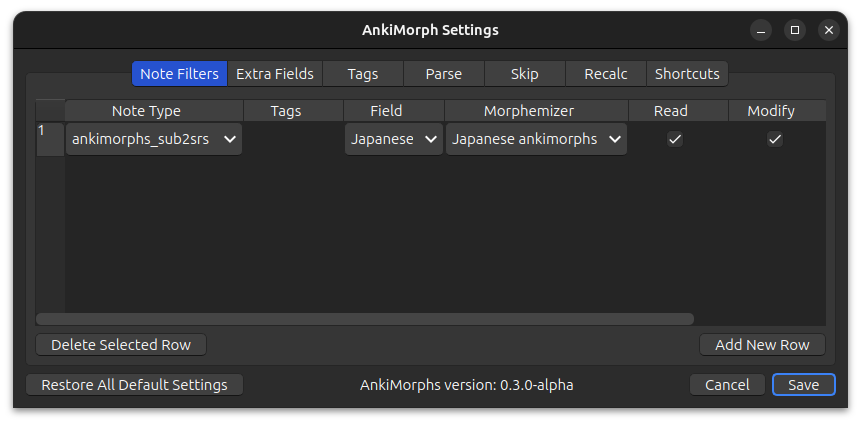
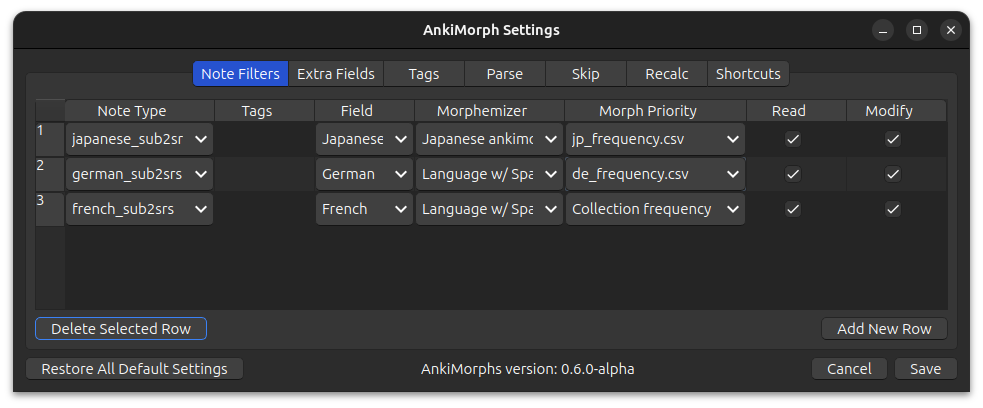
updated docs for v0.6.0 release( #59)

diff --git a/docs/src/user_guide/setup/prioritizing.md b/docs/src/user_guide/setup/prioritizing.md
@@ -1,50 +1,49 @@
 # Prioritizing
 
-Morphman prioritizes morphs based on two things:
+The more frequently a morph occurs in a language, the more useful it is to learn. This is the fundamental principle
+behind AnkiMorphs--learn a language in the order that will be the most useful.
 
-* How often the morph occurs in your [specified cards](preferences/note-filter.md#note-filter).
-* How high the morph is placed in a manually imported ['frequency.txt'](prioritizing.md#frequencytxt) file.
+AnkiMorphs is a general purpose language learning tool, therefore it has to be told which morphs occur most often. You
+can do this in two ways, either have AnkiMorphs calculate the morph frequencies found in your
+cards (`Collection frequency`), or you can specify a [custom .csv file](#frequencycsv) that contains that information.
 
-See the [MorphMan Index section](../glossary.md#morphman-index-mmi) to understand exactly how adding a frequency list
-affects MorphMan’s sorting algorithm.
+## frequency.csv
 
-## frequency.txt
+![frequency-csv.png](../../img/frequency-csv.png)
 
-This file contains a list of morphs in a top-down format, i.e. the higher the morph is in the list the more frequently
-it
-occurs. The higher a morph is the more priority it will be given by MorphMan.
+Your custom .csv file needs to follow this format:
 
-![morphman-freqtxt1.png](../../img/frequenxy-txt.png)
+- The 1st row is assumed to contain column headers and will be ignored.
+- Rows 2 and down are assumed to contain morphs in descending order of frequency, i.e. the morph on the 2nd row is the
+  most occurring morph, the morph on the 3rd row is the second most occurring, etc.
 
-Once you place a “frequency.txt” file in
-the [database folder](../glossary.md#databases),
-MorphMan will automatically begin using it to sort cards next time you run [Recalc](../usage/recalc.md). In order for MorphMan to recognize a
-frequency list, it must be formatted as a text file titled “frequency.txt” and contain one morph on each line.
+Keep the files to 50K rows or less, any rows after that are ignored for practical purposes.
 
-In general, longer frequency lists are preferable, as they provide more coverage. That said, longer frequency lists
-might make [Recalc](../usage/recalc.md) take slightly longer to complete.
+Any .csv file located in the folder [[anki profile folder](../glossary.md#profile-folder)]`/frequency-files/` is
+available for selection in [note filters](../setup/settings/note-filter.md).
 
-### Downloadable frequency.txt files
+### Creating Your Own frequency.csv
 
+You can also use the [Frequency File Generator](../usage/frequency-file-generator.md) to generate your own frequency.csv
+file.
+
+### Downloadable frequency.csv files
+
+If you have [generated a frequency file](../usage/frequency-file-generator.md) that you think other people might benefit
+from using then please consider sharing
+it! Create a new ['Documentation request' issue](https://github.com/mortii/anki-morphs/issues/new/choose) where you let
+me
+know, and I'll add it to the lists below.
 
 <details>
   <summary>Japanese Frequency Lists</summary>
 
-> * <a download href="../../frequency_lists/japanese_frequency_lists/jpdb-50k/frequency.txt">jpdb 50k</a> (recommended)  
-    Created from jpdb.io's collection of 130 million sentences
-> * <a download href="../../frequency_lists/japanese_frequency_lists/netflix-20k/frequency.txt">Netflix 20k</a>  
-    Created from all of the Japanese subtitles on Netflix
+> *
 </details>
 
 <details>
-  <summary>Chinese Frequency List</summary>
+  <summary>Chinese Frequency Lists</summary>
 
-> * <a download href="../../frequency_lists/chinese_frequency_lists/BLCU-20K/frequency.txt">BLCU 20K</a>  
-  Created from the BLCU Chinese Corpus frequency list.
+> *
 </details>
 
-### Creating Your Own frequenxy.txt
-
-You can also use the [Readability Analyzer](../usage/readability-analyzer.md) to generate your own original
-frequency.txt from
-target-language text.

diff --git a/docs/src/user_guide/setup/settings/note-filter.md b/docs/src/user_guide/setup/settings/note-filter.md
@@ -3,8 +3,10 @@
 ![settings-note-filter.png](../../../img/settings-note-filter.png)
 
 AnkiMorphs only analyzes and sorts cards that matches at least one "note filter"; if you don't specify any note filters
-then AnkiMorphs
-won't do anything, so this is a necessary step.
+then AnkiMorphs won't do anything, so this is a necessary step. This can seem overly complicated and overwhelming, but
+hopefully things will make sense after reading to the end of this page. This is really the heart of the add-on, and it
+has some powerful options (notably [tags](note-filter.md#tags)), so having a good understanding of note filters work
+might significantly improve how much you benefit from AnkiMorphs.
 
 Each note filter contains:
 
@@ -12,6 +14,7 @@ Each note filter contains:
 * [Tags](note-filter.md#tags) (optional)
 * [Field](note-filter.md#field)
 * [Morphemizer](note-filter.md#morphemizer)
+* [Morph Priority](note-filter.md#morph-priority)
 * [Read & Modify](note-filter.md#read--modify) (optional)
 
 ## Note Type
@@ -86,11 +89,22 @@ This is the field on the card AnkiMorphs reads and analyzes, which is then used 
 2. Find the note type in the left sidebar
 3. Find the field you care about
 
-In my case the field I'm interested in is "Japanese"
+In my case the field I'm interested in is `Japanese`
 
 ## Morphemizer
 
 This is the [parsing dictionary](../../installation/parsing-dictionary.md) AnkiMorphs uses to find morphs.
+
+## Morph Priority
+
+The calculated difficulty of the card, and as a result, the sorting of the card, depends on
+the [priority](../prioritizing.md) you give the
+morphs. You can either set the priorities to be `Collection frequency` (how often the morphs occur in your card
+collection), or you could use a [custom .csv file](../prioritizing.md#frequencycsv) that specifies the priorities of the
+morphs.
+
+AnkiMorphs automatically finds .csv files placed
+in [[anki profile folder](../../glossary.md#profile-folder)]`/frequency-files/`.
 
 ## Read & Modify
 

diff --git a/docs/src/user_guide/setup/names.md b/docs/src/user_guide/setup/names.md
@@ -1,7 +1,7 @@
 # Names
 
-AnkiMorphs enables users to include a list of names in a file named names.txt, preventing them from being marked as
-unknown. This feature is designed so users won't have to learn the names of places or individuals, as these words lack
+You can have AnkiMorphs automatically filter out specified names found on your cards. This feature is designed so users
+won't have to learn the names of places or individuals, as these words lack
 inherent meaning that can be acquired.
 
 To activate this feature, navigate to ``Tool > AnkiMorphs > Settings > Skip > Parse`` and tick the option ``Ignore names
@@ -9,16 +9,11 @@ found in "names.txt"``
 
 ![ignore-names-option.png](../../img/ignore-names-option.png)
 
-To update the list of names, input a list of names separated by new lines into the names.txt file. The file can be found
-in different locations based on your operating system:
-
-- For Windows: ``%APPDATA%\Anki2\ProfileName``
-- For MacOS: ``~/Library/Application``
-- For Linux: ``~/.local/share/Anki2`` or ``$XDG_DATA_HOME/Anki2``
+The `names.txt` file is located in your [anki profile folder](../glossary.md#profile-folder).
 
 ![example-name-list.png](../../img/example-name-list.png)
 
-During a review, you can also add names to the list by selecting a word, right-clicking it, and choosing "Mark as name"
-from the dropdown menu. And the word will automatically be added to names.txt.
+You can either update this file manually, or during a review you can also add names to the list by selecting a word,
+right-clicking it, and choosing "Mark as name" from the dropdown menu.
 
 ![mark-as-name.png](../../img/mark-as-name.png)

diff --git a/docs/src/user_guide/usage/frequency-file-generator.md b/docs/src/user_guide/usage/frequency-file-generator.md
@@ -6,7 +6,7 @@ The Frequency File Generator creates a csv file (comma delimited) containing the
 morphs are placed in descending order based on frequency; the most frequent morph is on line 2, the 2nd most frequent
 is on line 3, etc.
 
-![csv-file.png](../../img/csv-file.png)
+![frequency-csv.png](../../img/frequency-csv.png)
 
 ### Morph Collision
 
@@ -18,7 +18,7 @@ Base : Inflection
 或る    ある
 ```
 
-To prevent misinterpretation of the inflected morphs we also store the base.
+To prevent misinterpretation of the inflected morphs we also store the bases.
 
 ### Select Input
 
@@ -45,16 +45,18 @@ english_texts/
 If you were to select the `books` folder and you checked the .txt file format, then the frequency file analyzer would
 only use the `The Wise Man's Fear.txt` file.
 
-If you were to select the folder `english_texts` and you checked all the file format options, then the frequency file analyzer would
-use the files:
+If you were to select the folder `english_texts` and you checked all the file format options, then the frequency file
+analyzer would use the files:
+
 - `The Wise Man's Fear.txt`
 - `episode_1.srt`
 - `The_Fellowship_of_the_Ring.vtt`
 
 ### Select Output
 
-The output file is automatically set to be `[anki profile folder]/frequency-files/frequency.csv`. You can set it to be
-what ever you want.
+The output file is automatically set to
+be [[anki profile folder](../glossary.md#profile-folder)]`/frequency-files/frequency.csv`. You can name it whatever you
+want, e.g. `jp-freq.csv`, `chinese_hieroglyphs_frequencies.csv`.
 
 ### Minimum Occurrence
 

diff --git a/docs/src/user_guide/glossary.md b/docs/src/user_guide/glossary.md
@@ -32,14 +32,14 @@ have already made.
 
 [Read more about sub2srs here](https://learnanylanguage.fandom.com/wiki/Subs2srs)
 
-### Databases
+### Profile folder
 
-AnkiMorphs creates a local sqlite database called 'ankimorphs.db' stored in your Anki profile folder.
+AnkiMorphs places `ankimorphs.db`, `names.txt`, and the `frequency-files` folder here.
 
-You can find the folder here:
+These are the paths for the respective operating systems:
 
-* Windows: `C:\Users\[user]\AppData\Roaming\Anki2\[profile_name]\dbs.`
-* Mac: `/Users/[user]/Library/Application Support/Anki2/[profile_name]/dbs`
-* Linux: `/home/[user]/.local/share/Anki2/[profile_name]/dbs`
+* Windows: `C:\Users\[user]\AppData\Roaming\Anki2\[profile_name]`
+* Mac: `/Users/[user]/Library/Application Support/Anki2/[profile_name]`
+* Linux: `/home/[user]/.local/share/Anki2/[profile_name]`
 
 

diff --git a/docs/src/user_guide/setup/settings/shortcuts.md b/docs/src/user_guide/setup/settings/shortcuts.md
@@ -2,6 +2,5 @@
 
 ![shortcuts-tab.png](../../../img/shortcuts-tab.png)
 
-Change the AnkiMorph shortcuts if you prefer something else. 
-
-Be aware that changing these might lead to unexpected behaviour in either AnkiMorphs or Anki.
+Change the AnkiMorph shortcuts if you prefer something else. Be aware that changing these might lead to unexpected
+behaviour in either AnkiMorphs or Anki.
